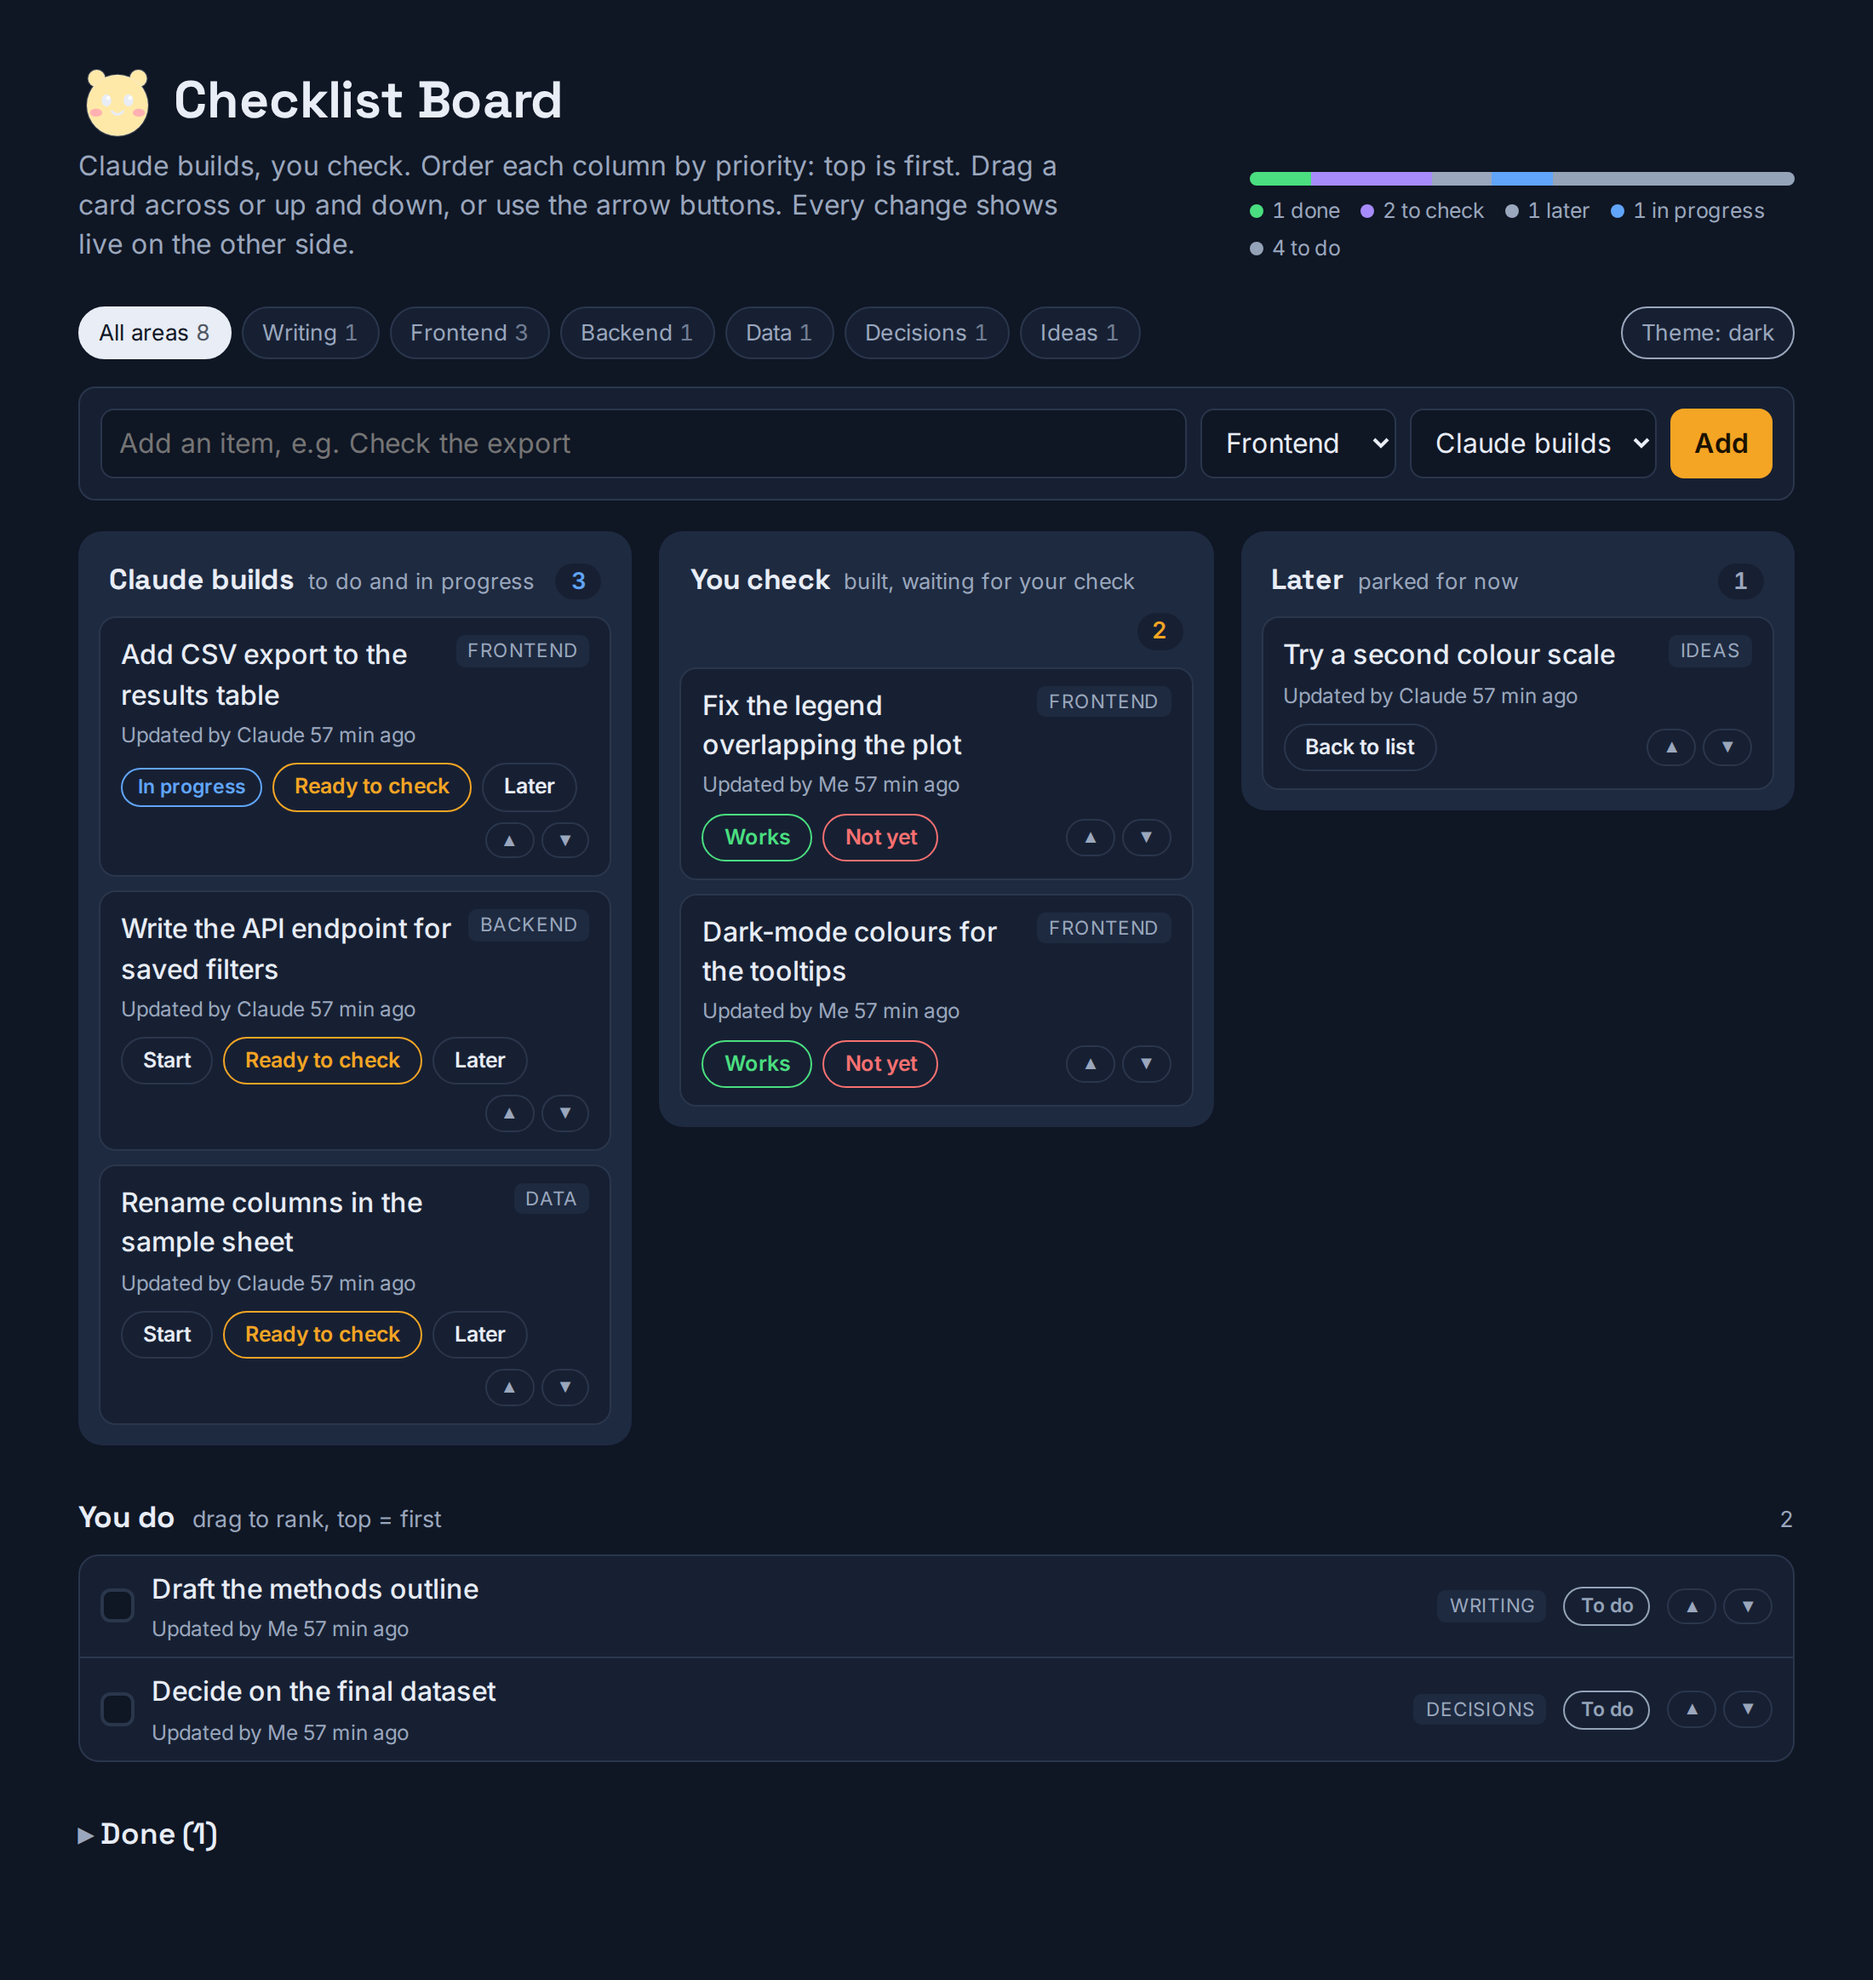
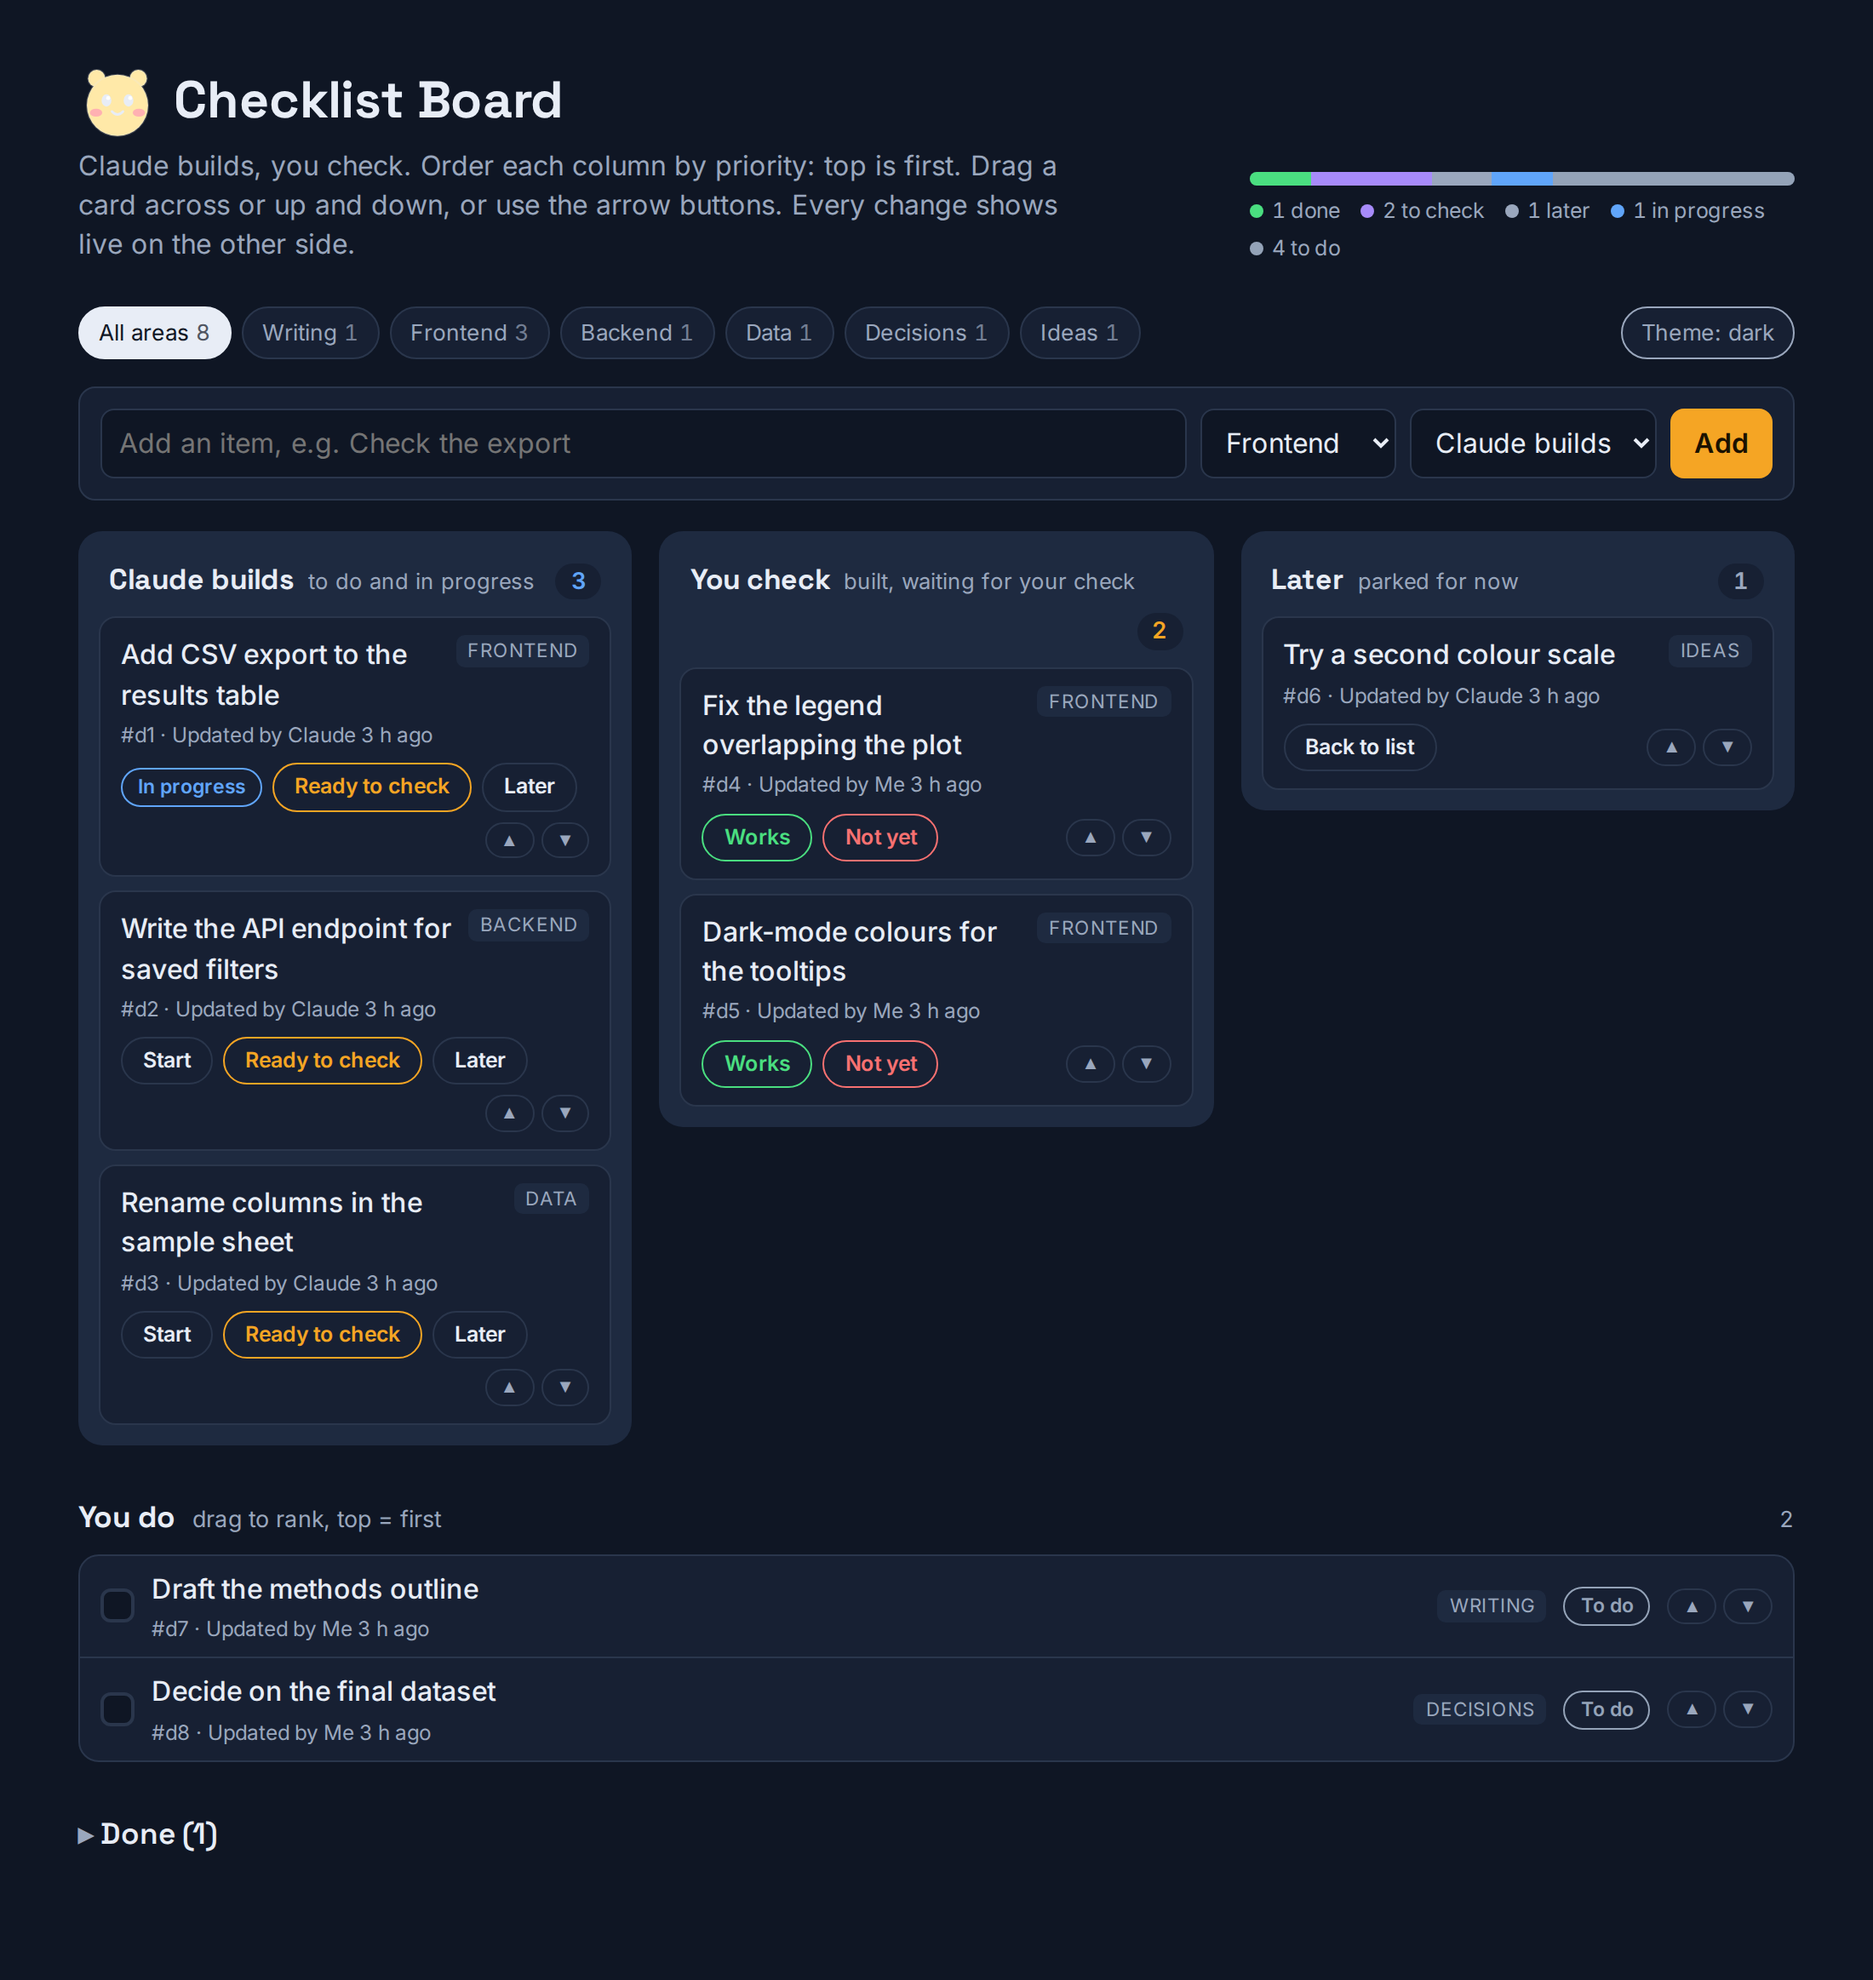
Add Send-to-Claude message box, chat id and row numbers
Ported from the personal board: per-row message box using the comments
capability with history on the row, optional chat id, #id in the card
meta line, notes are now for the owner. Copy-text button removed.
README and screenshots updated.

diff --git a/index.html b/index.html
@@ -134,6 +134,12 @@ textarea { width: 100%; resize: vertical; min-height: 58px; }
 .controls { display: flex; flex-wrap: wrap; gap: 8px; align-items: end; }
 .controls label { font-size: 0.78rem; color: var(--muted); display: grid; gap: 3px; }
 
+.ask { display: grid; gap: 6px; }
+.hist { display: grid; gap: 6px; max-height: 240px; overflow-y: auto; align-content: start; }
+.msg { background: var(--soft); border-radius: 8px; padding: 6px 10px; font-size: 0.88rem; white-space: pre-wrap; overflow-wrap: anywhere; user-select: text; -webkit-user-select: text; cursor: text; }
+.msg.claude { background: var(--accent-soft); }
+.msg .meta { margin: 0 0 2px; }
+.ask .controls { align-items: center; }
 /* lists below the board */
 section.lower { margin-top: 30px; }
 .lower-head { display: flex; align-items: baseline; gap: 10px; margin-bottom: 8px; }
@@ -343,28 +349,70 @@ details.done-log[open] > summary::before { content: "▾ "; }
     var areaSel = h("select", { id: "ar-" + t.id, "aria-label": "Area", onchange: function (e) { save(t.id, { area: e.target.value }); } });
     AREAS.forEach(function (a) { areaSel.appendChild(h("option", { value: a.id, text: a.name })); });
     areaSel.value = t.area;
-    var note = h("textarea", { id: "nt-" + t.id, "aria-label": "Notes", placeholder: "Notes for the other side (saved when you leave the box)" });
+    var note = h("textarea", { id: "nt-" + t.id, "aria-label": "Notes", placeholder: "Notes for yourself (saved when you leave the box). Messages to Claude go in the box below." });
     note.value = t.note || "";
     note.addEventListener("blur", function () { if (note.value !== (t.note || "")) save(t.id, { note: note.value }); });
+    var chatIn = h("input", { type: "text", id: "ch-" + t.id, "aria-label": "Claude chat that owns this row", placeholder: "chat id", size: "14", style: "font:inherit;color:var(--ink);background:var(--bg);border:1px solid var(--line);border-radius:8px;padding:8px 10px" });
+    chatIn.value = t.chat || "";
+    chatIn.addEventListener("blur", function () { if (chatIn.value.trim() !== (t.chat || "")) save(t.id, { chat: chatIn.value.trim() }); });
     var del = h("button", { class: "btn ghost danger", type: "button", style: "margin-left:auto", text: "Delete", onclick: function () {
       if (del.dataset.arm === "1") removeTask(t.id); else { del.dataset.arm = "1"; del.textContent = "Click again to delete"; }
     } });
     return h("div", { class: "detail" },
       t.detail ? h("p", { text: t.detail }) : null,
-      h("div", { class: "controls" }, h("label", null, "Status", statusSel), h("label", null, "Owner", whoSel), h("label", null, "Area", areaSel),
-        h("button", { class: "btn ghost", type: "button", text: "Copy text", onclick: function () {
-          var txt = (t.title || "") + "\n\n" + (t.detail || "") + (t.note ? "\n\nNotes:\n" + t.note : "");
-          var fallback = function () { var ta = document.createElement("textarea"); ta.value = txt; ta.style.position = "fixed"; ta.style.opacity = "0"; document.body.appendChild(ta); ta.select(); var ok = false; try { ok = document.execCommand("copy"); } catch (x) {} document.body.removeChild(ta); toast(ok ? "Copied" : "Select the text and copy it with Ctrl+C"); };
-          if (navigator.clipboard && navigator.clipboard.writeText) navigator.clipboard.writeText(txt).then(function () { toast("Copied"); }, fallback); else fallback();
-        } }),
+      h("div", { class: "controls" }, h("label", null, "Status", statusSel), h("label", null, "Owner", whoSel), h("label", null, "Area", areaSel), h("label", null, "Chat (id)", chatIn),
         del),
-      note);
+      note, askBlock(t));
+  }
+  // Message to Claude on one row: posts a comment anchored to the row and sends it to the Claude session (comments capability, editors only).
+  var commentsP = null;
+  function getComments() {
+    if (!commentsP) commentsP = (window.claude && window.claude.use ? window.claude.use("comments") : Promise.resolve(null)).catch(function () { return null; });
+    return commentsP;
+  }
+  function askBlock(t) {
+    var ta = h("textarea", { id: "ask-" + t.id, "aria-label": "Message to Claude", placeholder: "Message to Claude about this row. Enter sends, Shift+Enter makes a new line." });
+    var btn = h("button", { class: "btn", type: "button", text: "Send to Claude", disabled: true });
+    var msg = h("span", { class: "meta" });
+    var hist = h("div", { class: "hist" });
+    var th = t.thread || {};
+    Object.keys(th).sort().forEach(function (k) {
+      var m = th[k] || {};
+      hist.appendChild(h("div", { class: "msg " + (m.from === "Claude" ? "claude" : "me") },
+        h("div", { class: "meta", text: (m.from || "?") + (m.at ? " · " + ago(m.at) : "") }), h("div", { text: m.text || "" })));
+    });
+    var box = h("div", { class: "ask" }, Object.keys(th).length ? hist : null, ta, h("div", { class: "controls" }, btn, msg));
+    if (Object.keys(th).length) setTimeout(function () { hist.scrollTop = hist.scrollHeight; }, 0);
+    getComments().then(function (c) {
+      if (!c || !c.canSendToClaude) { box.hidden = true; return; }
+      c.canSendToClaude().then(function (s) {
+        if (s !== "available") { msg.textContent = s === "no_session" ? "No Claude session is listening right now." : "Sending to Claude is not available in this view."; return; }
+        btn.disabled = false;
+      }, function () { msg.textContent = "Sending to Claude is not available in this view."; });
+      var send = function () {
+        var text = ta.value.trim();
+        if (!text || btn.disabled) return;
+        btn.disabled = true; msg.textContent = "Sending…";
+        c.anchorFor(box).then(function (anchor) {
+          return c.sendToClaude({ anchor: anchor, text: "[board row " + t.id + ": " + (t.title || "") + "] [for chat: " + (t.chat ? String(t.chat).split(" ")[0] : "any") + "] " + text });
+        }).then(function () {
+          var now = new Date().toISOString(), p = {}; p[now + "-me"] = { from: ME, at: now, text: text };
+          save(t.id, { thread: p });
+          ta.value = ""; msg.textContent = "Sent. Claude answers in the comment thread and in the history above.";
+        },
+          function (e) { msg.textContent = "Not sent: " + ((e && (e.message || e.code)) || "try again"); }).then(function () { btn.disabled = false; });
+      };
+      btn.addEventListener("click", send);
+      ta.addEventListener("keydown", function (e) { if (e.key === "Enter" && !e.shiftKey && !e.isComposing) { e.preventDefault(); send(); } });
+    });
+    return box;
   }
   function titleBlock(t, extraMeta) {
-    var meta = (t.updatedBy ? "Updated by " + t.updatedBy + " " + ago(t.updatedAt) : "");
+    var num = "#" + (String(t.id).length > 8 ? String(t.id).slice(0, 6) : t.id);
+    var meta = num + (t.chat ? " · chat " + t.chat : "") + (t.updatedBy ? " · Updated by " + t.updatedBy + " " + ago(t.updatedAt) : "");
     return h("button", { class: "title-btn", type: "button", "aria-expanded": String(!!expanded[t.id]), onclick: function () { expanded[t.id] = !expanded[t.id]; render(); } },
       h("div", { class: "title", text: t.title || "(untitled)" }),
-      meta ? h("div", { class: "meta", text: meta }) : null);
+      h("div", { class: "meta", text: meta }));
   }
 
   // Put a card into a column at a position (before the card `beforeId`, or at the end) and write the order for

diff --git a/README.md b/README.md
@@ -1,7 +1,7 @@
 # Checklist board for working with Claude
 
 A small shared to-do board for a human and Claude. Claude builds, you check.
-It is a single HTML page that runs as a **claude.ai Artifact** with the `db` capability.
+It is a single HTML page that runs as a **claude.ai Artifact** with the `db` and `comments` capabilities.
 This repo contains the page only; there are no tasks in it. Your tasks live in the
 artifact's own database, not in git.
 
@@ -16,7 +16,8 @@ Demo rows, not real tasks. Three themes, switched with the Theme button.
 ## Set up
 
 1. In Claude (claude.ai or Claude Code), ask: *"Publish `index.html` from this repo as an
-   artifact with the `db` capability."* The page reads and writes the collection `tasks`.
+   artifact with the `db` and `comments` capabilities."* The page reads and writes the
+   collection `tasks`; `comments` powers the "Send to Claude" box (without it that box is hidden).
 2. Open the artifact link. The board starts empty; add the first item in the form at the top.
 3. Optional: add the snippet below to your `CLAUDE.md` so Claude keeps the board in sync.
 
@@ -31,13 +32,18 @@ One document per row in the collection `tasks`:
 | `who` | whose move it is: `Claude`, `Me` |
 | `area` | one of the areas defined at the top of the script (edit `AREAS`) |
 | `detail` | Claude's answers and results |
-| `note` | your comments for Claude (an instruction or a question) |
+| `note` | your own notes on the row |
+| `thread` | the message history with Claude: a map of `{from, at, text}` entries keyed by timestamp |
+| `chat` | optional id of the Claude chat that owns the row, so messages go to the right session |
 | `rank` | order within a column (top = first) |
 | `createdAt`, `updatedAt`, `updatedBy` | set by the page |
 
 Workflow: Claude takes a `todo` row, sets it `doing`, and when finished sets `test` with
 `who` = `Me` and writes in `detail` what was done and how it was checked. You press **Works**
-(`done`) or **Not yet** (back to Claude, with a note). Only you move a row to `done`.
+(`done`) or **Not yet** (back to Claude; say what is wrong in the row's message box). Only you move a row to `done`.
+
+To talk to Claude about one row, open the card and use **Send to Claude**. The message goes to a
+running Claude session that is watching the artifact, and the history stays on the row.
 
 ## Snippet for your CLAUDE.md
 
@@ -45,7 +51,10 @@ Workflow: Claude takes a `todo` row, sets it `doing`, and when finished sets `te
 ## Checklist board
 My to-do list is a claude.ai artifact: <your artifact URL> (db collection `tasks`,
 read and write it with the `ArtifactData` tool).
-- Read my `note` on a row as an instruction or question and answer it in `detail`.
+- Messages I send from a row's "Send to Claude" box reach you as a comment starting with
+  `[board row <id>: <title>]`. Answer in the comment thread and also append the answer to the
+  row's `thread` map as `{from: "Claude", at: <ISO time>, text}` under a new timestamp key.
+- Put results in `detail`; my `note` is only my own notes.
 - Create a row for every new task I name before starting it (status `doing`, `who` "Claude").
 - When finished, set status `test` and `who` "Me"; say in `detail` what was done and how it
   was verified. Only I move a row to `done`.
